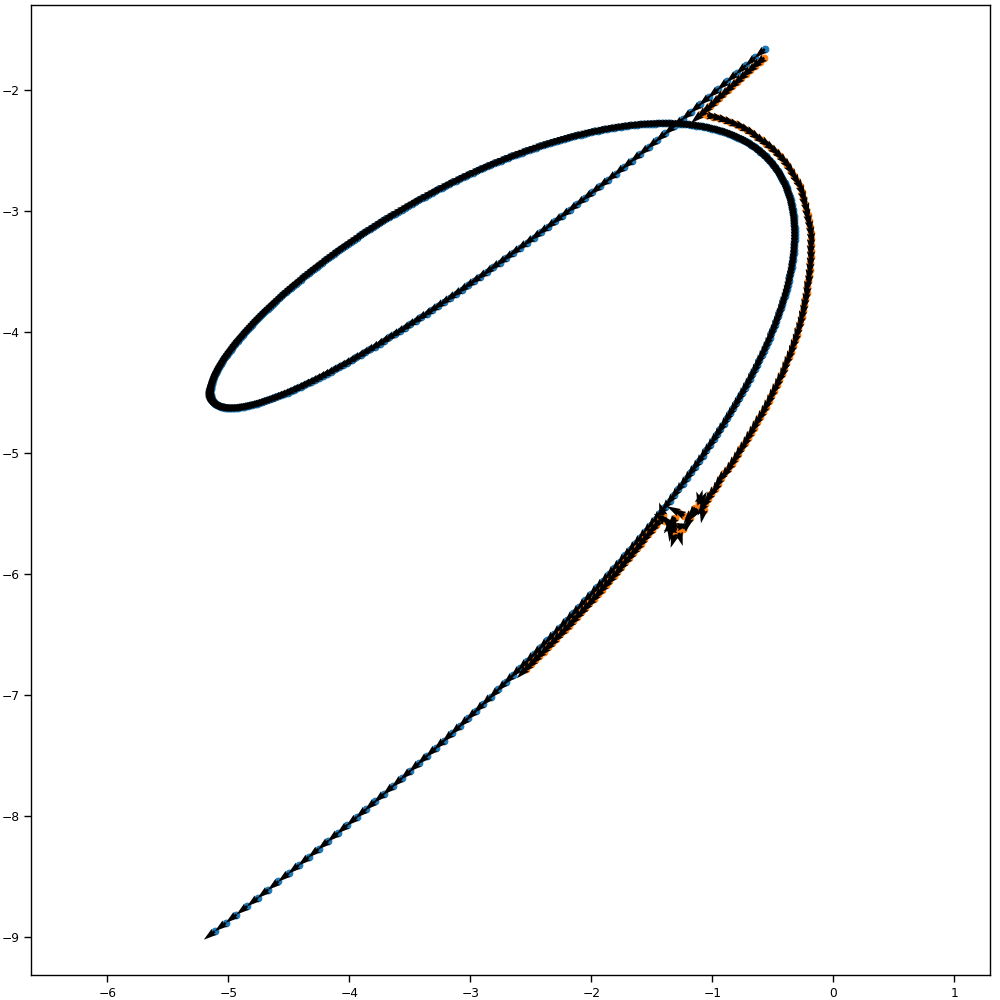
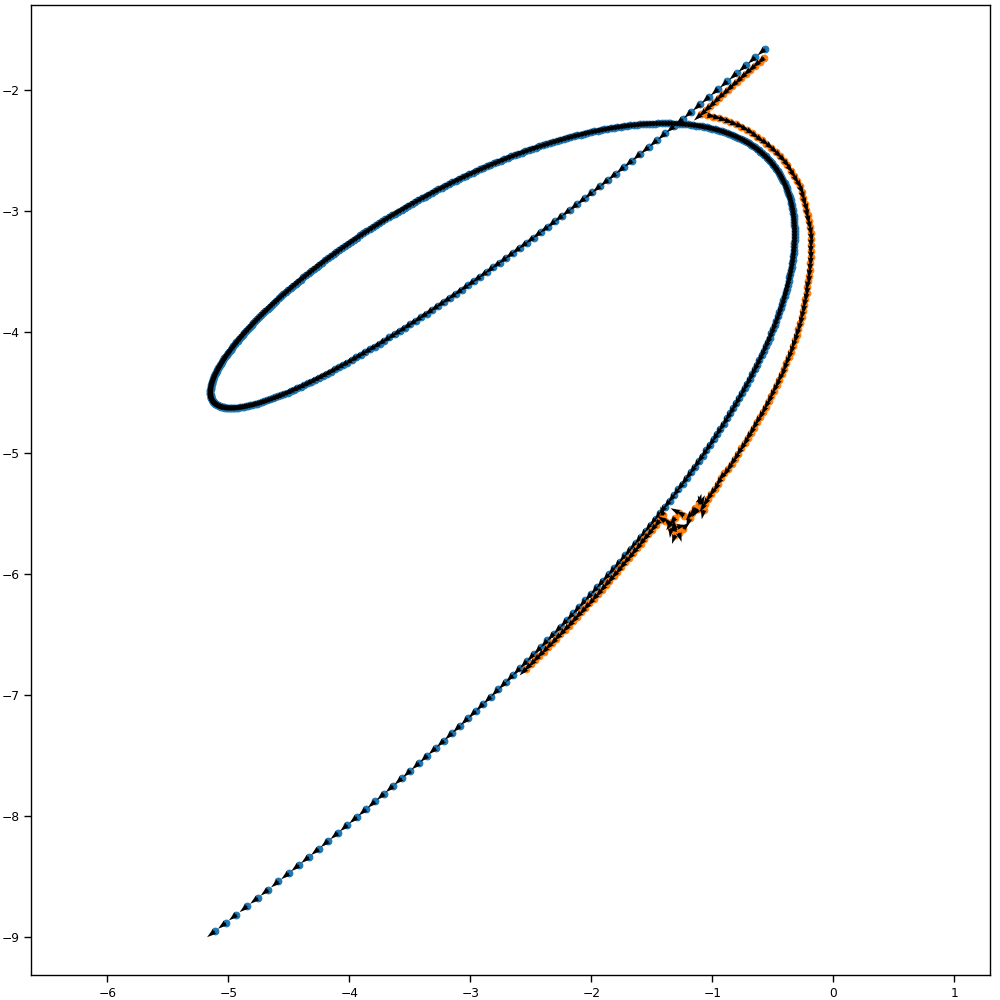
New plots and final analysis plots are ready

diff --git a/Results/newant/route-plot-errors-analysis.py b/Results/newant/route-plot-errors-analysis.py
@@ -29,7 +29,7 @@ data['th'] = data['th'].apply(literal_eval)
 
 
 # Plot a specific route
-route_id = 3
+route_id = 5
 fig_save_path = os.path.join(fig_save_path, f"route{route_id}")
 check_for_dir_and_create(fig_save_path)
 path = os.path.join(routes_path, f"route{route_id}")
@@ -42,7 +42,7 @@ g_loc_norm = "{'sig1': 2, 'sig2': 20}"
 loc_norm = 'False'
 threshold = 0
 figsize = (10, 10)
-title = 'D'
+title = None #'D'
 
 traj = data.loc[(data['matcher'] == matcher) & (data['res'] == res) & 
                 (data['edge'] == edge) & (data['blur'] == blur) &
@@ -71,7 +71,7 @@ if threshold:
 temp_save_path = os.path.join(fig_save_path, 'route{}.w{}.m{}.res{}.edge{}.thres{}.png'\
     .format(route_id, window, matcher, res, edge, threshold))
 
-plot_route(route, traj, scale=70, size=figsize, save=True, path=temp_save_path, title=title)
+plot_route(route, traj, scale=100, size=figsize, save=True, path=temp_save_path, title=title)
 
 
 # if window:
